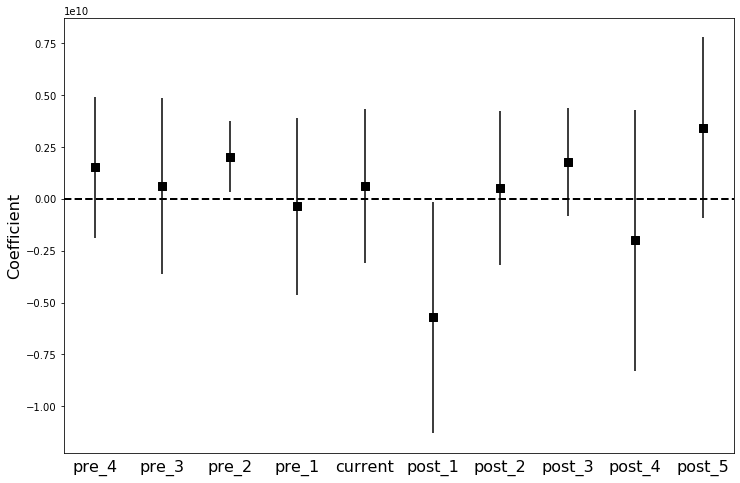
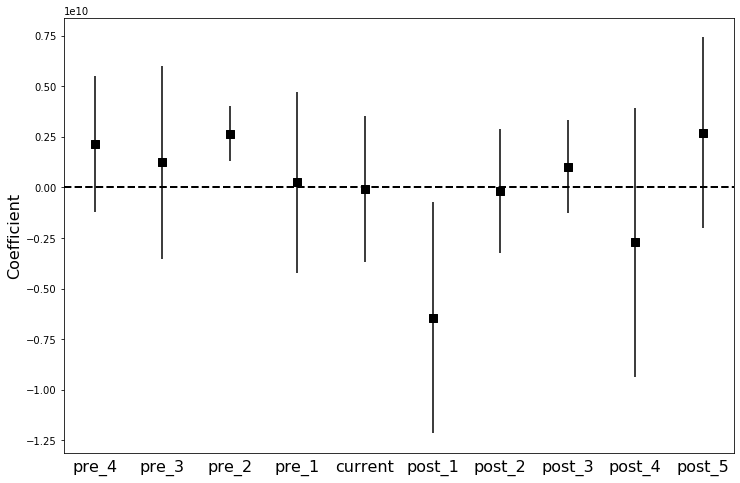
update model

diff --git a/_posts/2020-02-23-DID-Parallel-Test.md b/_posts/2020-02-23-DID-Parallel-Test.md
@@ -185,12 +185,14 @@ panel["current"] = np.where(panel["period"] == 0, 1, 0) * panel["treated"]
 ```python
 import statsmodels.formula.api as smf
 
-formula = "y ~ did" + " + " + " + ".join(vars_pre) + " + current + " + " + ".join(vars_post) + "+ C(year) + C(country)"
+formula = "y ~ " + " + ".join(vars_pre) + " + current + " + " + ".join(vars_post) + "+ C(year) + C(country)"
 did = smf.ols(formula, data=panel).fit(cov_type="cluster", cov_kwds={"groups" : panel["country"]})
 did.summary()
 ```
 
-<table class="dataframe">
+
+
+<table class="simpletable">
 <caption>OLS Regression Results</caption>
 <tr>
   <th>Dep. Variable:</th>            <td>y</td>        <th>  R-squared:         </th> <td>   0.538</td>
@@ -199,13 +201,13 @@ did.summary()
   <th>Model:</th>                   <td>OLS</td>       <th>  Adj. R-squared:    </th> <td>   0.292</td>
 </tr>
 <tr>
-  <th>Method:</th>             <td>Least Squares</td>  <th>  F-statistic:       </th> <td>   2.062</td>
+  <th>Method:</th>             <td>Least Squares</td>  <th>  F-statistic:       </th> <td>   2.117</td>
 </tr>
 <tr>
-  <th>Date:</th>             <td>Sun, 23 Feb 2020</td> <th>  Prob (F-statistic):</th>  <td> 0.202</td> 
+  <th>Date:</th>             <td>Sun, 23 Feb 2020</td> <th>  Prob (F-statistic):</th>  <td> 0.194</td> 
 </tr>
 <tr>
-  <th>Time:</th>                 <td>20:53:31</td>     <th>  Log-Likelihood:    </th> <td> -1599.7</td>
+  <th>Time:</th>                 <td>22:17:18</td>     <th>  Log-Likelihood:    </th> <td> -1599.7</td>
 </tr>
 <tr>
   <th>No. Observations:</th>      <td>    70</td>      <th>  AIC:               </th> <td>   3249.</td>
@@ -225,37 +227,37 @@ did.summary()
          <td></td>            <th>coef</th>     <th>std err</th>      <th>z</th>      <th>P>|z|</th>  <th>[0.025</th>    <th>0.975]</th>  
 </tr>
 <tr>
-  <th>Intercept</th>       <td>-1.004e+09</td> <td> 1.46e+09</td> <td>   -0.689</td> <td> 0.491</td> <td>-3.86e+09</td> <td> 1.85e+09</td>
+  <th>Intercept</th>       <td>-1.004e+09</td> <td> 1.44e+09</td> <td>   -0.697</td> <td> 0.486</td> <td>-3.83e+09</td> <td> 1.82e+09</td>
 </tr>
 <tr>
-  <th>C(year)[T.1991]</th> <td> 1.003e+09</td> <td> 2.55e+09</td> <td>    0.393</td> <td> 0.694</td> <td>-3.99e+09</td> <td>    6e+09</td>
+  <th>C(year)[T.1991]</th> <td> 1.003e+09</td> <td> 2.52e+09</td> <td>    0.398</td> <td> 0.691</td> <td>-3.94e+09</td> <td> 5.94e+09</td>
 </tr>
 <tr>
-  <th>C(year)[T.1992]</th> <td> 4.278e+08</td> <td> 1.59e+09</td> <td>    0.270</td> <td> 0.787</td> <td>-2.68e+09</td> <td> 3.54e+09</td>
+  <th>C(year)[T.1992]</th> <td> 4.278e+08</td> <td> 1.57e+09</td> <td>    0.273</td> <td> 0.785</td> <td>-2.65e+09</td> <td>  3.5e+09</td>
 </tr>
 <tr>
-  <th>C(year)[T.1993]</th> <td> 4.003e+09</td> <td> 2.03e+09</td> <td>    1.972</td> <td> 0.049</td> <td> 2.48e+07</td> <td> 7.98e+09</td>
+  <th>C(year)[T.1993]</th> <td> 4.003e+09</td> <td> 2.01e+09</td> <td>    1.995</td> <td> 0.046</td> <td> 7.03e+07</td> <td> 7.94e+09</td>
 </tr>
 <tr>
-  <th>C(year)[T.1994]</th> <td> 4.616e+09</td> <td> 2.21e+09</td> <td>    2.091</td> <td> 0.037</td> <td> 2.89e+08</td> <td> 8.94e+09</td>
+  <th>C(year)[T.1994]</th> <td> 4.616e+09</td> <td> 2.18e+09</td> <td>    2.115</td> <td> 0.034</td> <td> 3.38e+08</td> <td> 8.89e+09</td>
 </tr>
 <tr>
-  <th>C(year)[T.1995]</th> <td> 5.214e+09</td> <td> 1.89e+09</td> <td>    2.757</td> <td> 0.006</td> <td> 1.51e+09</td> <td> 8.92e+09</td>
+  <th>C(year)[T.1995]</th> <td> 5.214e+09</td> <td> 1.87e+09</td> <td>    2.788</td> <td> 0.005</td> <td> 1.55e+09</td> <td> 8.88e+09</td>
 </tr>
 <tr>
-  <th>C(year)[T.1996]</th> <td> 3.412e+09</td> <td> 1.38e+09</td> <td>    2.466</td> <td> 0.014</td> <td>    7e+08</td> <td> 6.12e+09</td>
+  <th>C(year)[T.1996]</th> <td> 3.412e+09</td> <td> 1.37e+09</td> <td>    2.494</td> <td> 0.013</td> <td> 7.31e+08</td> <td> 6.09e+09</td>
 </tr>
 <tr>
-  <th>C(year)[T.1997]</th> <td> 4.195e+09</td> <td> 1.57e+09</td> <td>    2.669</td> <td> 0.008</td> <td> 1.11e+09</td> <td> 7.28e+09</td>
+  <th>C(year)[T.1997]</th> <td> 4.195e+09</td> <td> 1.55e+09</td> <td>    2.700</td> <td> 0.007</td> <td> 1.15e+09</td> <td> 7.24e+09</td>
 </tr>
 <tr>
-  <th>C(year)[T.1998]</th> <td> 3.075e+09</td> <td> 1.53e+09</td> <td>    2.007</td> <td> 0.045</td> <td> 7.28e+07</td> <td> 6.08e+09</td>
+  <th>C(year)[T.1998]</th> <td> 3.075e+09</td> <td> 1.51e+09</td> <td>    2.031</td> <td> 0.042</td> <td> 1.07e+08</td> <td> 6.04e+09</td>
 </tr>
 <tr>
-  <th>C(year)[T.1999]</th> <td> 1.376e+09</td> <td> 2.81e+09</td> <td>    0.490</td> <td> 0.624</td> <td>-4.13e+09</td> <td> 6.89e+09</td>
+  <th>C(year)[T.1999]</th> <td> 1.376e+09</td> <td> 2.78e+09</td> <td>    0.495</td> <td> 0.620</td> <td>-4.07e+09</td> <td> 6.82e+09</td>
 </tr>
 <tr>
-  <th>C(country)[T.B]</th> <td>-1.514e+09</td> <td>      nan</td> <td>      nan</td> <td>   nan</td> <td>      nan</td> <td>      nan</td>
+  <th>C(country)[T.B]</th> <td>-1.514e+09</td> <td>    2.635</td> <td>-5.75e+08</td> <td> 0.000</td> <td>-1.51e+09</td> <td>-1.51e+09</td>
 </tr>
 <tr>
   <th>C(country)[T.C]</th> <td>-3.835e+08</td> <td>      nan</td> <td>      nan</td> <td>   nan</td> <td>      nan</td> <td>      nan</td>
@@ -264,46 +266,43 @@ did.summary()
   <th>C(country)[T.D]</th> <td> 1.912e+09</td> <td>      nan</td> <td>      nan</td> <td>   nan</td> <td>      nan</td> <td>      nan</td>
 </tr>
 <tr>
-  <th>C(country)[T.E]</th> <td>-4.477e+08</td> <td> 3.33e+08</td> <td>   -1.344</td> <td> 0.179</td> <td> -1.1e+09</td> <td> 2.05e+08</td>
+  <th>C(country)[T.E]</th> <td>-1.067e+09</td> <td>      nan</td> <td>      nan</td> <td>   nan</td> <td>      nan</td> <td>      nan</td>
 </tr>
 <tr>
-  <th>C(country)[T.F]</th> <td> 2.388e+09</td> <td> 3.33e+08</td> <td>    7.170</td> <td> 0.000</td> <td> 1.74e+09</td> <td> 3.04e+09</td>
+  <th>C(country)[T.F]</th> <td> 1.769e+09</td> <td>      nan</td> <td>      nan</td> <td>   nan</td> <td>      nan</td> <td>      nan</td>
 </tr>
 <tr>
-  <th>C(country)[T.G]</th> <td> 5.351e+08</td> <td> 3.33e+08</td> <td>    1.606</td> <td> 0.108</td> <td>-1.18e+08</td> <td> 1.19e+09</td>
+  <th>C(country)[T.G]</th> <td>-8.405e+07</td> <td>    2.583</td> <td>-3.25e+07</td> <td> 0.000</td> <td> -8.4e+07</td> <td> -8.4e+07</td>
 </tr>
 <tr>
-  <th>did</th>             <td>-1.342e+09</td> <td> 7.22e+08</td> <td>   -1.859</td> <td> 0.063</td> <td>-2.76e+09</td> <td> 7.31e+07</td>
+  <th>pre_4</th>           <td> 2.141e+09</td> <td> 1.71e+09</td> <td>    1.253</td> <td> 0.210</td> <td>-1.21e+09</td> <td> 5.49e+09</td>
 </tr>
 <tr>
-  <th>pre_4</th>           <td> 1.521e+09</td> <td> 1.73e+09</td> <td>    0.880</td> <td> 0.379</td> <td>-1.87e+09</td> <td> 4.91e+09</td>
+  <th>pre_3</th>           <td> 1.241e+09</td> <td> 2.43e+09</td> <td>    0.510</td> <td> 0.610</td> <td>-3.53e+09</td> <td> 6.01e+09</td>
 </tr>
 <tr>
-  <th>pre_3</th>           <td> 6.216e+08</td> <td> 2.18e+09</td> <td>    0.286</td> <td> 0.775</td> <td>-3.64e+09</td> <td> 4.89e+09</td>
+  <th>pre_2</th>           <td> 2.651e+09</td> <td> 6.91e+08</td> <td>    3.835</td> <td> 0.000</td> <td>  1.3e+09</td> <td> 4.01e+09</td>
 </tr>
 <tr>
-  <th>pre_2</th>           <td> 2.032e+09</td> <td> 8.76e+08</td> <td>    2.318</td> <td> 0.020</td> <td> 3.14e+08</td> <td> 3.75e+09</td>
+  <th>pre_1</th>           <td> 2.618e+08</td> <td> 2.28e+09</td> <td>    0.115</td> <td> 0.909</td> <td>-4.21e+09</td> <td> 4.73e+09</td>
 </tr>
 <tr>
-  <th>pre_1</th>           <td>-3.574e+08</td> <td> 2.18e+09</td> <td>   -0.164</td> <td> 0.870</td> <td>-4.63e+09</td> <td> 3.92e+09</td>
+  <th>current</th>         <td>-9.168e+07</td> <td> 1.84e+09</td> <td>   -0.050</td> <td> 0.960</td> <td>-3.71e+09</td> <td> 3.52e+09</td>
 </tr>
 <tr>
-  <th>current</th>         <td> 6.307e+08</td> <td> 1.89e+09</td> <td>    0.334</td> <td> 0.738</td> <td>-3.07e+09</td> <td> 4.33e+09</td>
+  <th>post_1</th>          <td>-6.432e+09</td> <td> 2.91e+09</td> <td>   -2.211</td> <td> 0.027</td> <td>-1.21e+10</td> <td>-7.31e+08</td>
 </tr>
 <tr>
-  <th>post_1</th>          <td> -5.71e+09</td> <td> 2.85e+09</td> <td>   -2.006</td> <td> 0.045</td> <td>-1.13e+10</td> <td>-1.31e+08</td>
+  <th>post_2</th>          <td>  -1.9e+08</td> <td> 1.56e+09</td> <td>   -0.122</td> <td> 0.903</td> <td>-3.25e+09</td> <td> 2.87e+09</td>
 </tr>
 <tr>
-  <th>post_2</th>          <td> 5.324e+08</td> <td>  1.9e+09</td> <td>    0.280</td> <td> 0.780</td> <td> -3.2e+09</td> <td> 4.26e+09</td>
+  <th>post_3</th>          <td> 1.035e+09</td> <td> 1.17e+09</td> <td>    0.887</td> <td> 0.375</td> <td>-1.25e+09</td> <td> 3.32e+09</td>
 </tr>
 <tr>
-  <th>post_3</th>          <td> 1.758e+09</td> <td> 1.33e+09</td> <td>    1.322</td> <td> 0.186</td> <td>-8.48e+08</td> <td> 4.36e+09</td>
+  <th>post_4</th>          <td>-2.716e+09</td> <td>  3.4e+09</td> <td>   -0.798</td> <td> 0.425</td> <td>-9.38e+09</td> <td> 3.95e+09</td>
 </tr>
 <tr>
-  <th>post_4</th>          <td>-1.993e+09</td> <td> 3.21e+09</td> <td>   -0.621</td> <td> 0.535</td> <td>-8.28e+09</td> <td>  4.3e+09</td>
-</tr>
-<tr>
-  <th>post_5</th>          <td> 3.441e+09</td> <td> 2.22e+09</td> <td>    1.551</td> <td> 0.121</td> <td>-9.08e+08</td> <td> 7.79e+09</td>
+  <th>post_5</th>          <td> 2.718e+09</td> <td>  2.4e+09</td> <td>    1.134</td> <td> 0.257</td> <td>-1.98e+09</td> <td> 7.42e+09</td>
 </tr>
 </table>
 <table class="simpletable">
@@ -317,9 +316,9 @@ did.summary()
   <th>Skew:</th>          <td>-0.144</td> <th>  Prob(JB):          </th> <td>   0.763</td>
 </tr>
 <tr>
-  <th>Kurtosis:</th>      <td> 3.320</td> <th>  Cond. No.          </th> <td>2.02e+16</td>
+  <th>Kurtosis:</th>      <td> 3.320</td> <th>  Cond. No.          </th> <td>9.40e+15</td>
 </tr>
-</table><br/><br/>Warnings:<br/>[1] Standard Errors are robust to cluster correlation (cluster)<br/>[2] The smallest eigenvalue is 2.27e-31. This might indicate that there are<br/>strong multicollinearity problems or that the design matrix is singular.
+</table><br/><br/>Warnings:<br/>[1] Standard Errors are robust to cluster correlation (cluster)<br/>[2] The smallest eigenvalue is 9.79e-31. This might indicate that there are<br/>strong multicollinearity problems or that the design matrix is singular.
 
 
 
@@ -361,6 +360,8 @@ coef_plot(did, vars, vars, ax)
 ```
 
 ![](https://github.com/shumchi/shumchi.github.io/blob/master/_posts/2020-02-23-DID-Parallel-Test/output_6_0.png?raw=true)
+
+
 
 
 
